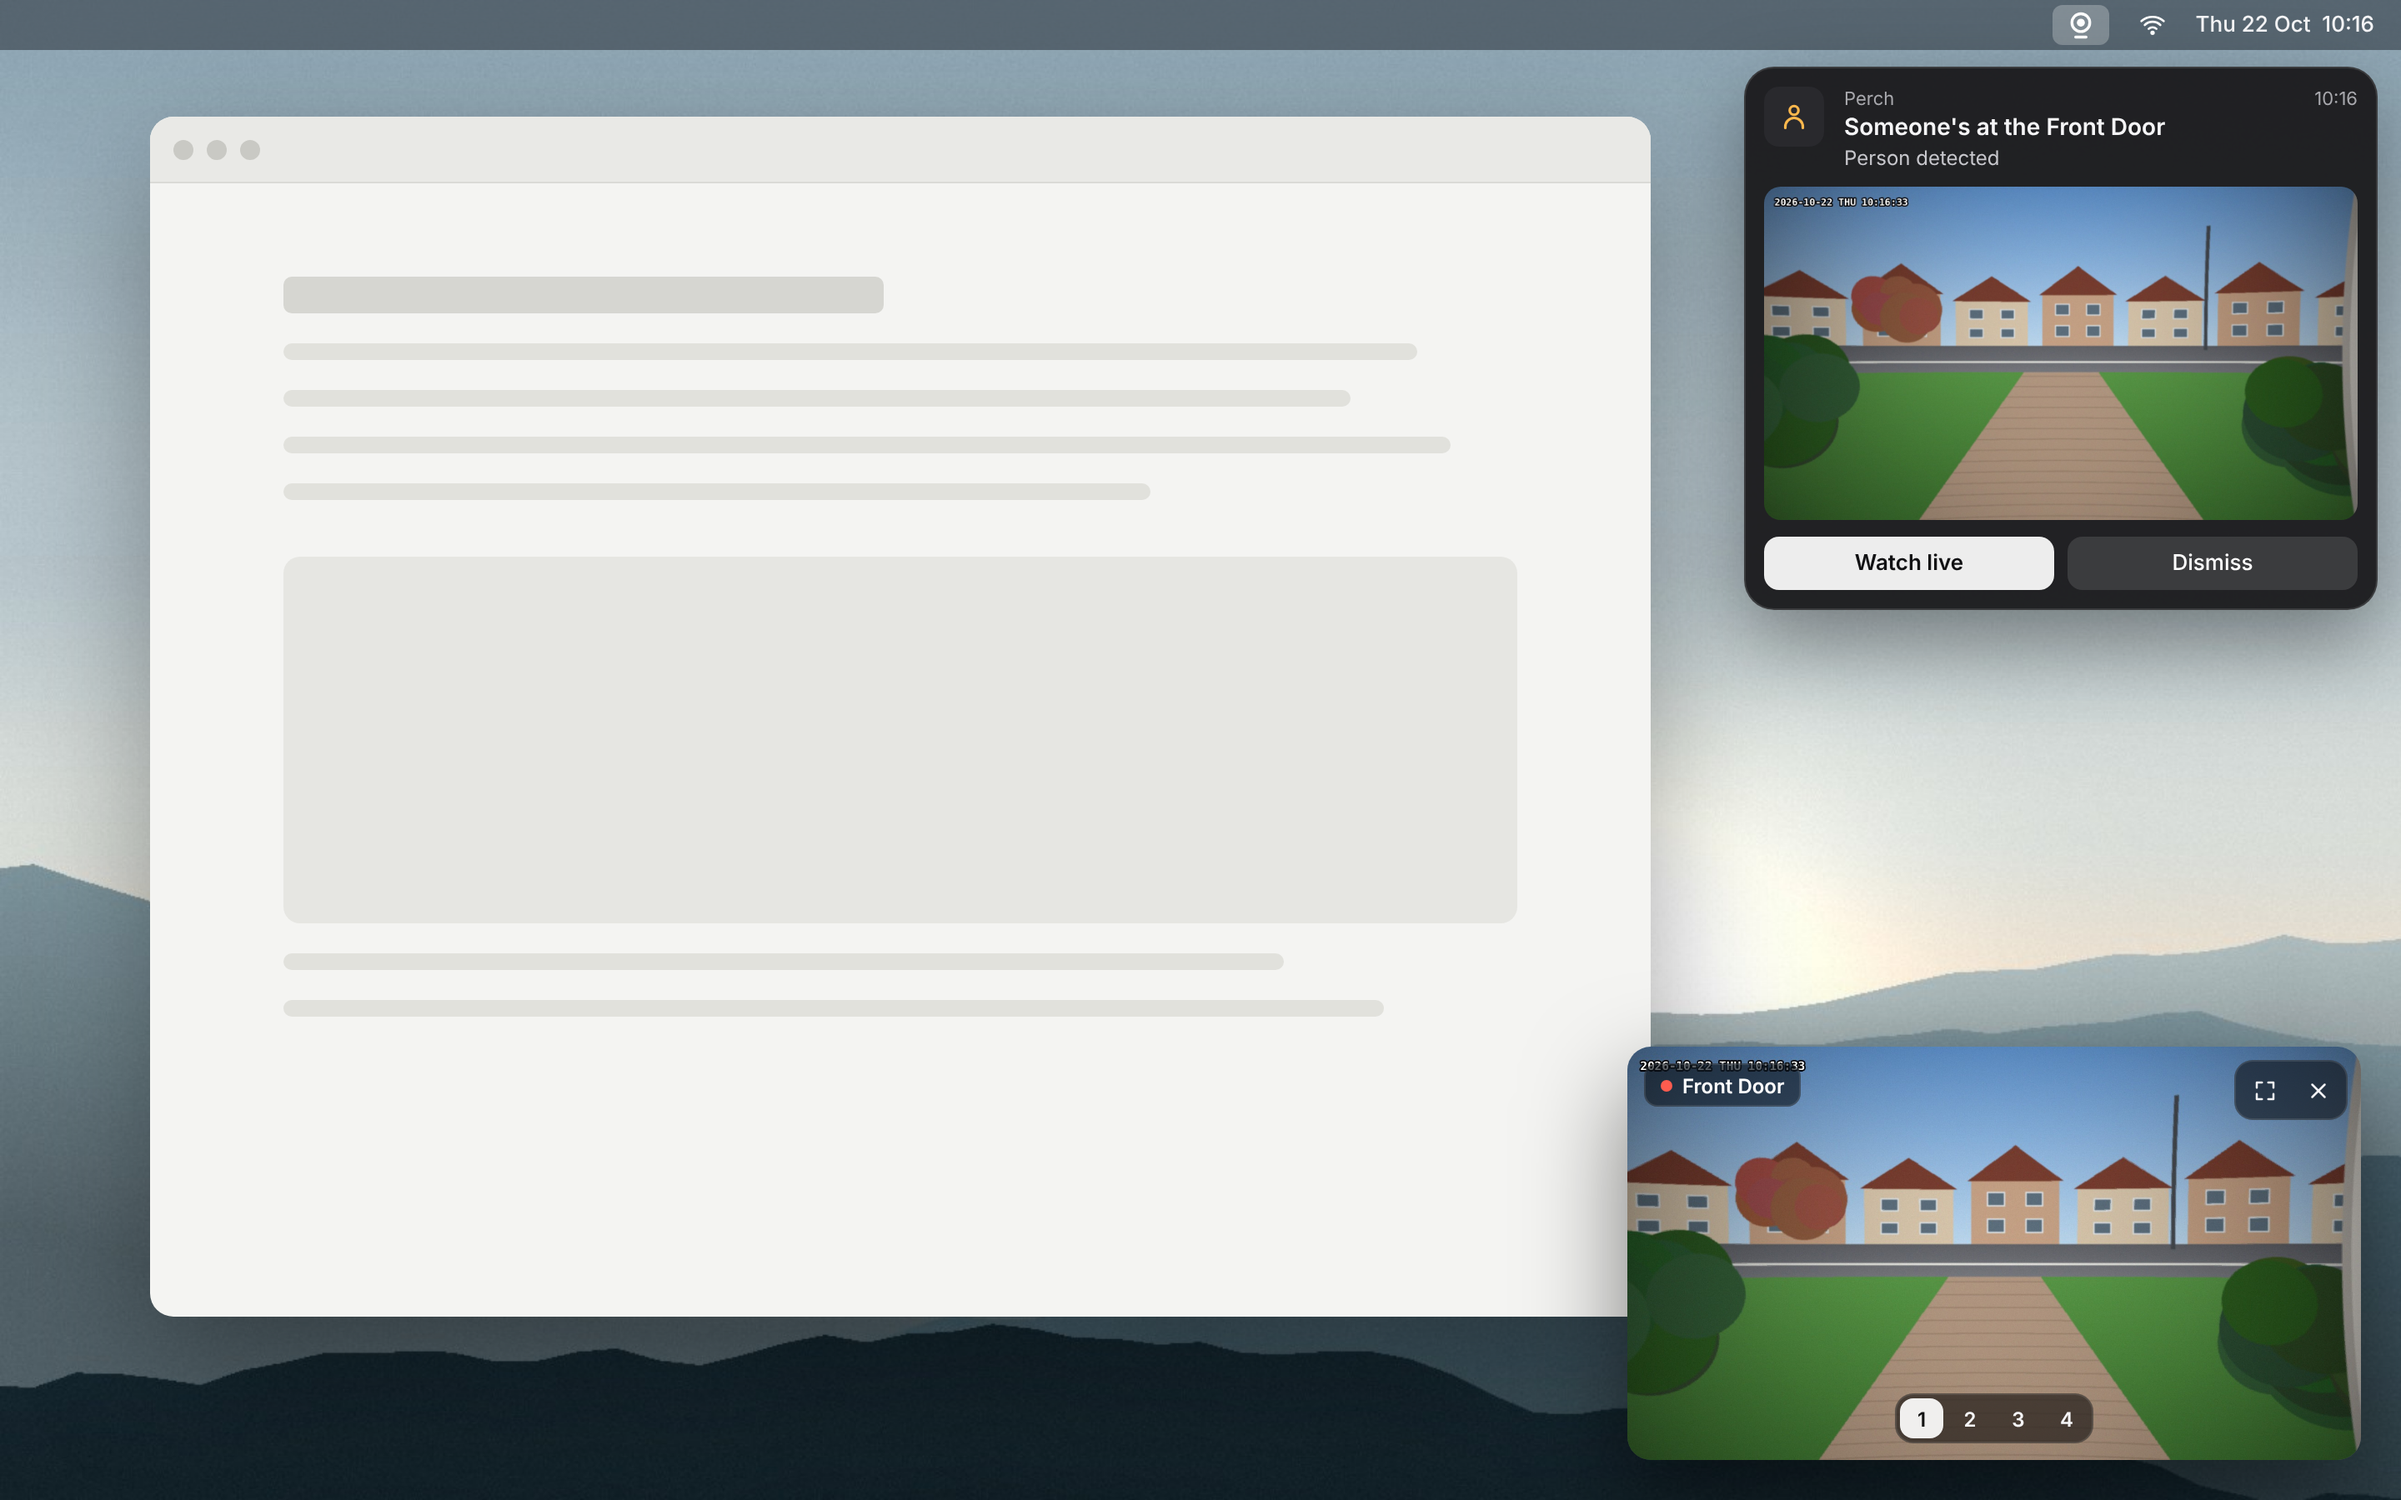
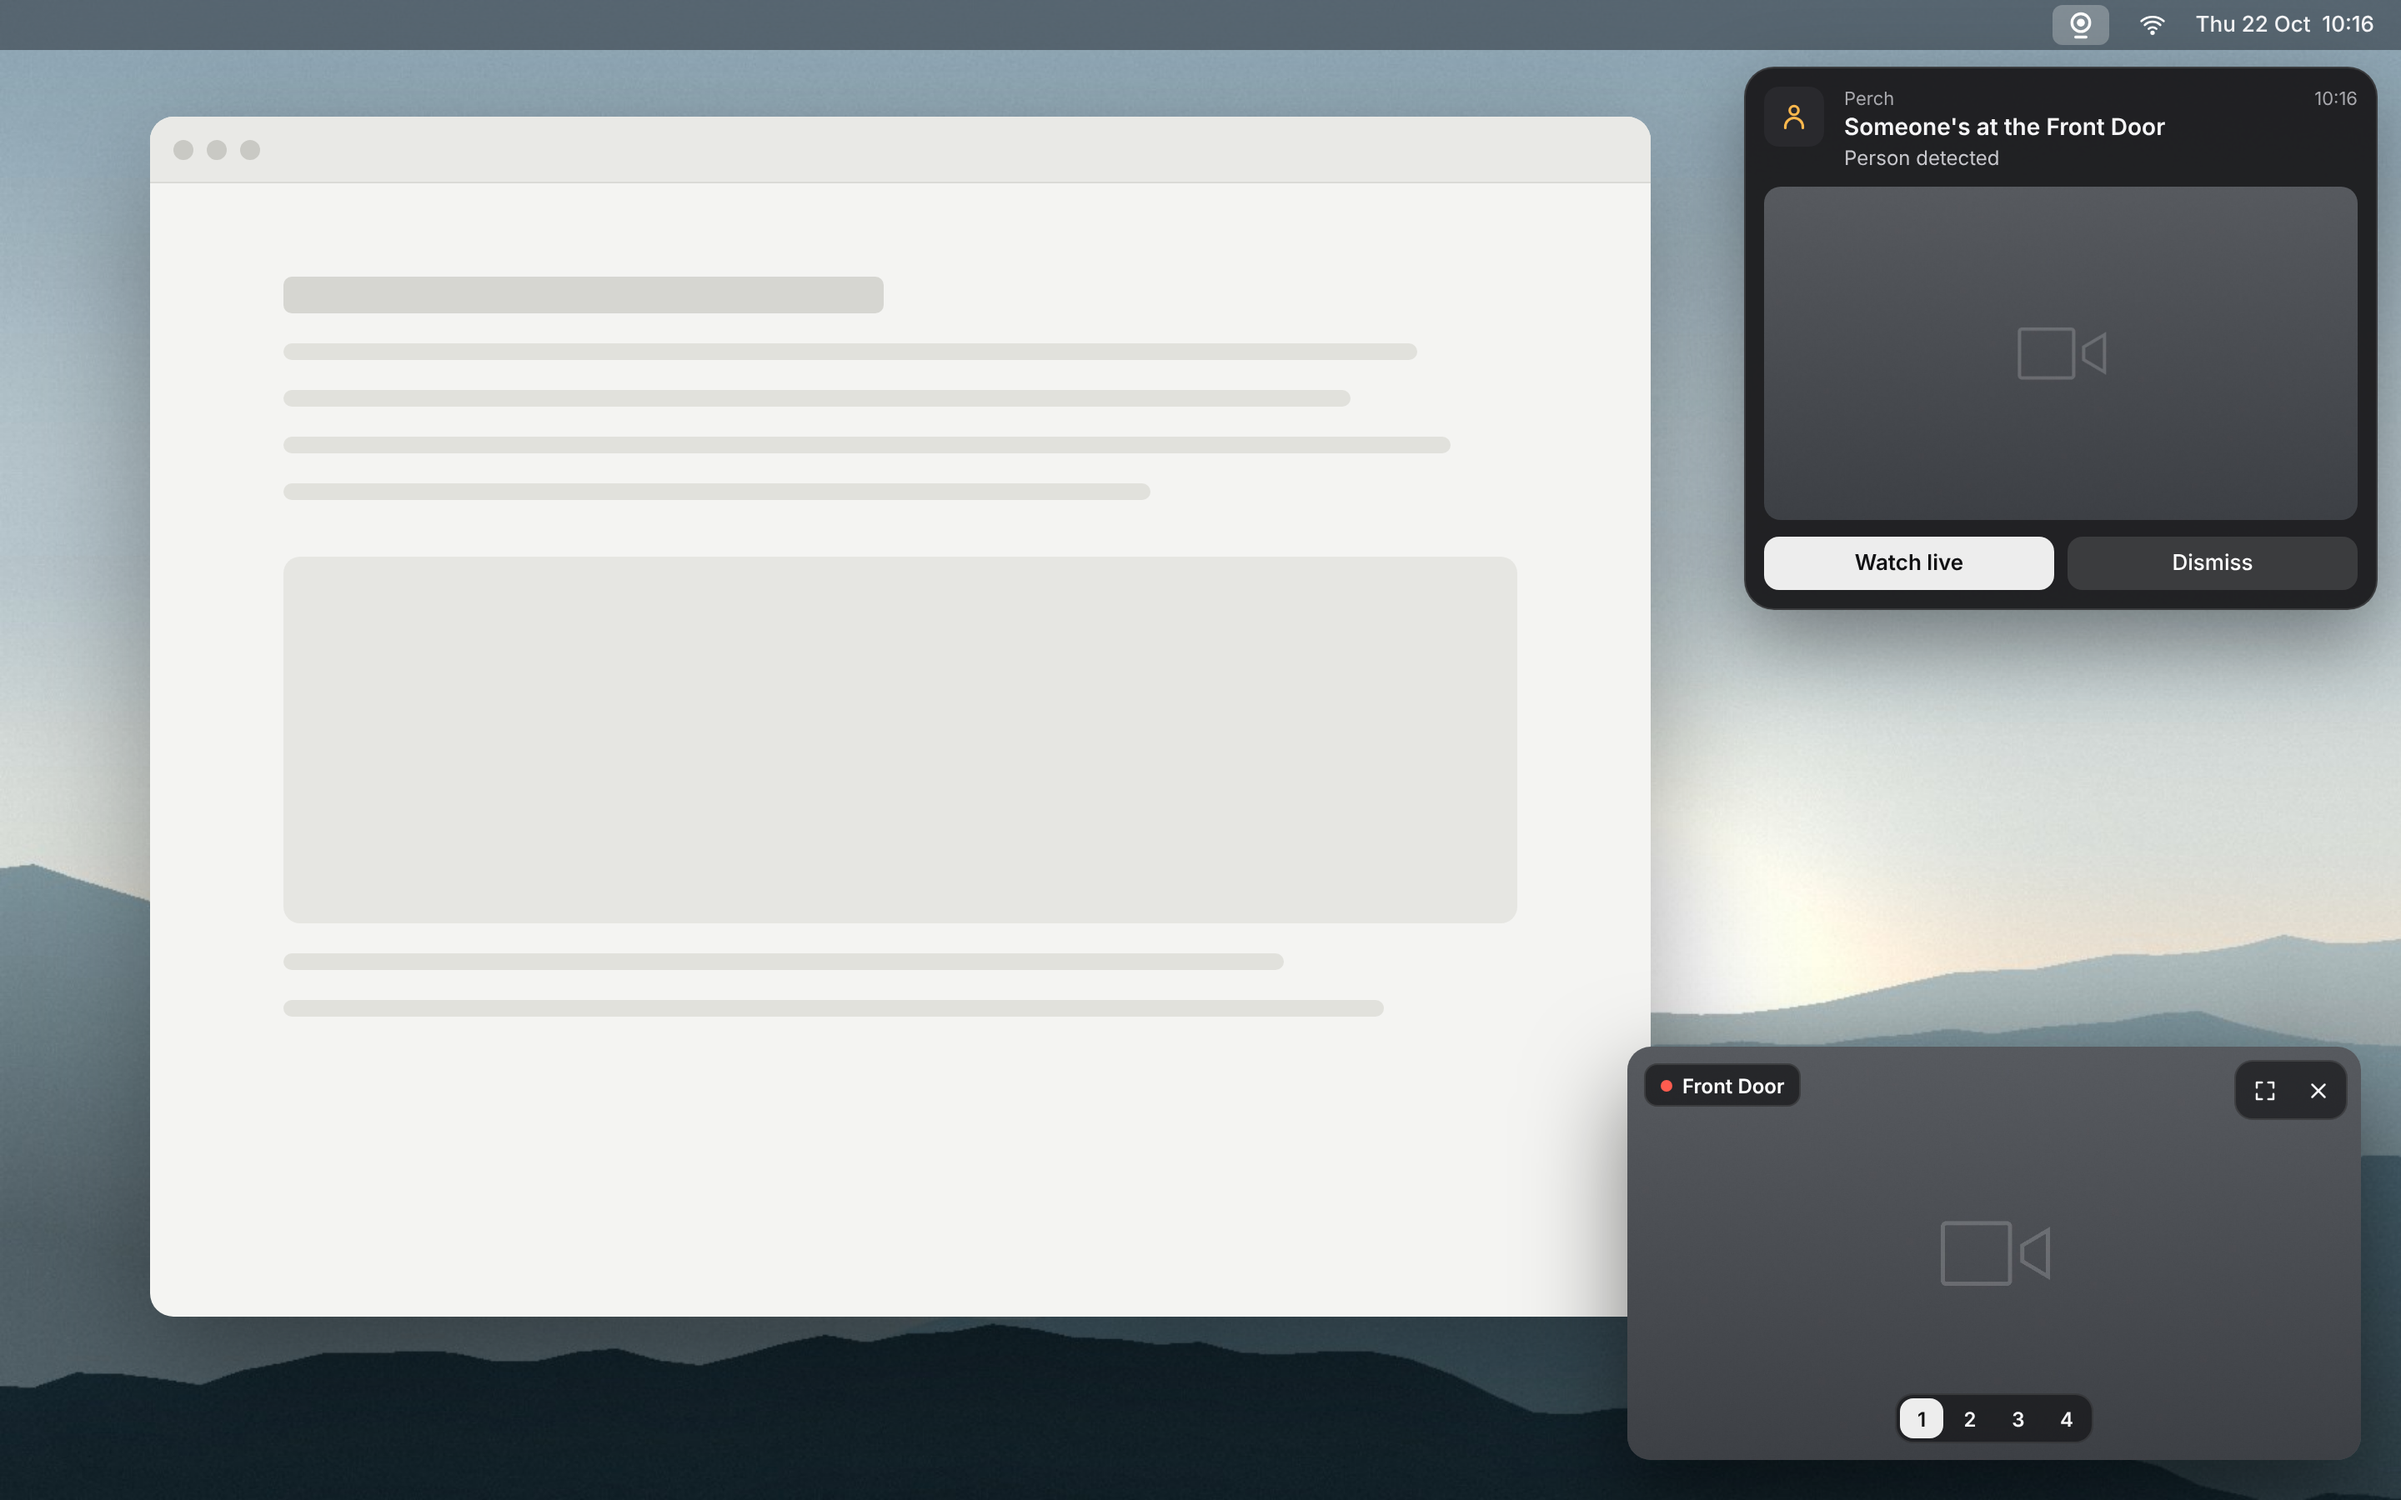
Perch 2.0

Changed region(s): [[0.6562, 0.6844, 1.0, 0.9956], [0.7188, 0.1244, 1.0, 0.3733]]

diff --git a/Sources/AppDelegate.swift b/Sources/AppDelegate.swift
@@ -1,0 +1,29 @@
+import AppKit
+import CoreServices
+
+/// Handles opening Perch from the Dock, Finder or Launchpad.
+@MainActor
+final class AppDelegate: NSObject, NSApplicationDelegate {
+    func applicationDidFinishLaunching(_ notification: Notification) {
+        guard let store = WindowManager.shared.store,
+              store.isConfigured,
+              store.openViewerOnLaunch,
+              !launchedAsLoginItem else { return }
+        WindowManager.shared.showViewer(grid: true)
+    }
+
+    /// Clicking Perch in the Dock (or opening it again) while it's running.
+    func applicationShouldHandleReopen(_ sender: NSApplication, hasVisibleWindows flag: Bool) -> Bool {
+        WindowManager.shared.showViewer(grid: WindowManager.shared.hasViewer ? nil : true)
+        return true
+    }
+
+    func applicationShouldTerminateAfterLastWindowClosed(_ sender: NSApplication) -> Bool { false }
+
+    /// Started automatically at login, so stay quietly in the menu bar.
+    private var launchedAsLoginItem: Bool {
+        guard let event = NSAppleEventManager.shared().currentAppleEvent,
+              event.eventID == AEEventID(kAEOpenApplication) else { return false }
+        return event.paramDescriptor(forKeyword: AEKeyword(keyAEPropData))?.enumCodeValue == OSType(keyAELaunchedAsLogInItem)
+    }
+}

diff --git a/Sources/WindowManager.swift b/Sources/WindowManager.swift
@@ -31,8 +31,12 @@ final class WindowManager: NSObject, NSWindowDelegate {
 
     // MARK: Camera window
 
+    var hasViewer: Bool { viewer != nil }
+
     func showViewer(channel: Int? = nil, grid: Bool? = nil) {
         guard let store else { return }
+        // Behave like a normal app (Dock, ⌘-Tab) while the camera window is open.
+        NSApp.setActivationPolicy(.regular)
         if let channel { store.selected = channel }
         if let grid { store.showGrid = grid }
         if viewer == nil {
@@ -163,7 +167,11 @@ final class WindowManager: NSObject, NSWindowDelegate {
 
     func windowWillClose(_ notification: Notification) {
         guard let w = notification.object as? NSWindow else { return }
-        if w === viewer { store?.setViewerVisible(false) }
+        if w === viewer {
+            store?.setViewerVisible(false)
+            // Back to living quietly in the menu bar.
+            NSApp.setActivationPolicy(.accessory)
+        }
         if w === mini { store?.setMiniVisible(false) }
     }
 }

diff --git a/Sources/CameraStore.swift b/Sources/CameraStore.swift
@@ -111,6 +111,11 @@ final class CameraStore: ObservableObject {
     @Published var focusChannel: Int = UserDefaults.standard.object(forKey: "focusChannel") as? Int ?? 0 {
         didSet { UserDefaults.standard.set(focusChannel, forKey: "focusChannel") }
     }
+    /// Open the camera window when Perch is opened from the Dock, Finder or Launchpad.
+    @Published var openViewerOnLaunch: Bool = UserDefaults.standard.object(forKey: "openViewerOnLaunch") as? Bool ?? true {
+        didSet { UserDefaults.standard.set(openViewerOnLaunch, forKey: "openViewerOnLaunch") }
+    }
+
     /// Video quality for one camera on its own, and for the all-cameras view.
     @Published var singleQuality = StreamQuality(rawValue: UserDefaults.standard.string(forKey: "singleQuality") ?? "") ?? .high {
         didSet {

diff --git a/Sources/SettingsView.swift b/Sources/SettingsView.swift
@@ -189,6 +189,7 @@ struct SettingsView: View {
                     Text("5s").tag(5.0)
                 }
                 .pickerStyle(.segmented)
+                Toggle("Open the camera window when Perch is opened", isOn: $store.openViewerOnLaunch)
                 Toggle("Launch at login", isOn: $launchAtLogin)
                     .onChange(of: launchAtLogin) { on in
                         do {

diff --git a/Sources/App.swift b/Sources/App.swift
@@ -3,6 +3,7 @@ import AppKit
 
 @main
 struct PerchApp: App {
+    @NSApplicationDelegateAdaptor(AppDelegate.self) private var appDelegate
     @StateObject private var store: CameraStore
 
     init() {

diff --git a/README.md b/README.md
@@ -27,7 +27,7 @@
   </tr>
 </table>
 
-<sub>Screenshots use illustrated stand-in camera scenes.</sub>
+<sub>Camera pictures are shown as grey placeholders in these screenshots.</sub>
 
 ---
 
@@ -59,6 +59,14 @@ The first time you open it, macOS may say it can't verify the developer. If so:
 1. Open **System Settings → Privacy & Security**.
 2. Scroll down and click **Open Anyway** next to the message about Perch.
 3. Confirm with **Open**. You only need to do this once.
+
+Prefer Terminal? This does the same thing:
+
+```bash
+xattr -dr com.apple.quarantine /Applications/Perch.app
+```
+
+(Right-click → Open no longer skips this check on recent versions of macOS.)
 
 ### 2. Install ffmpeg (for live video)
 
